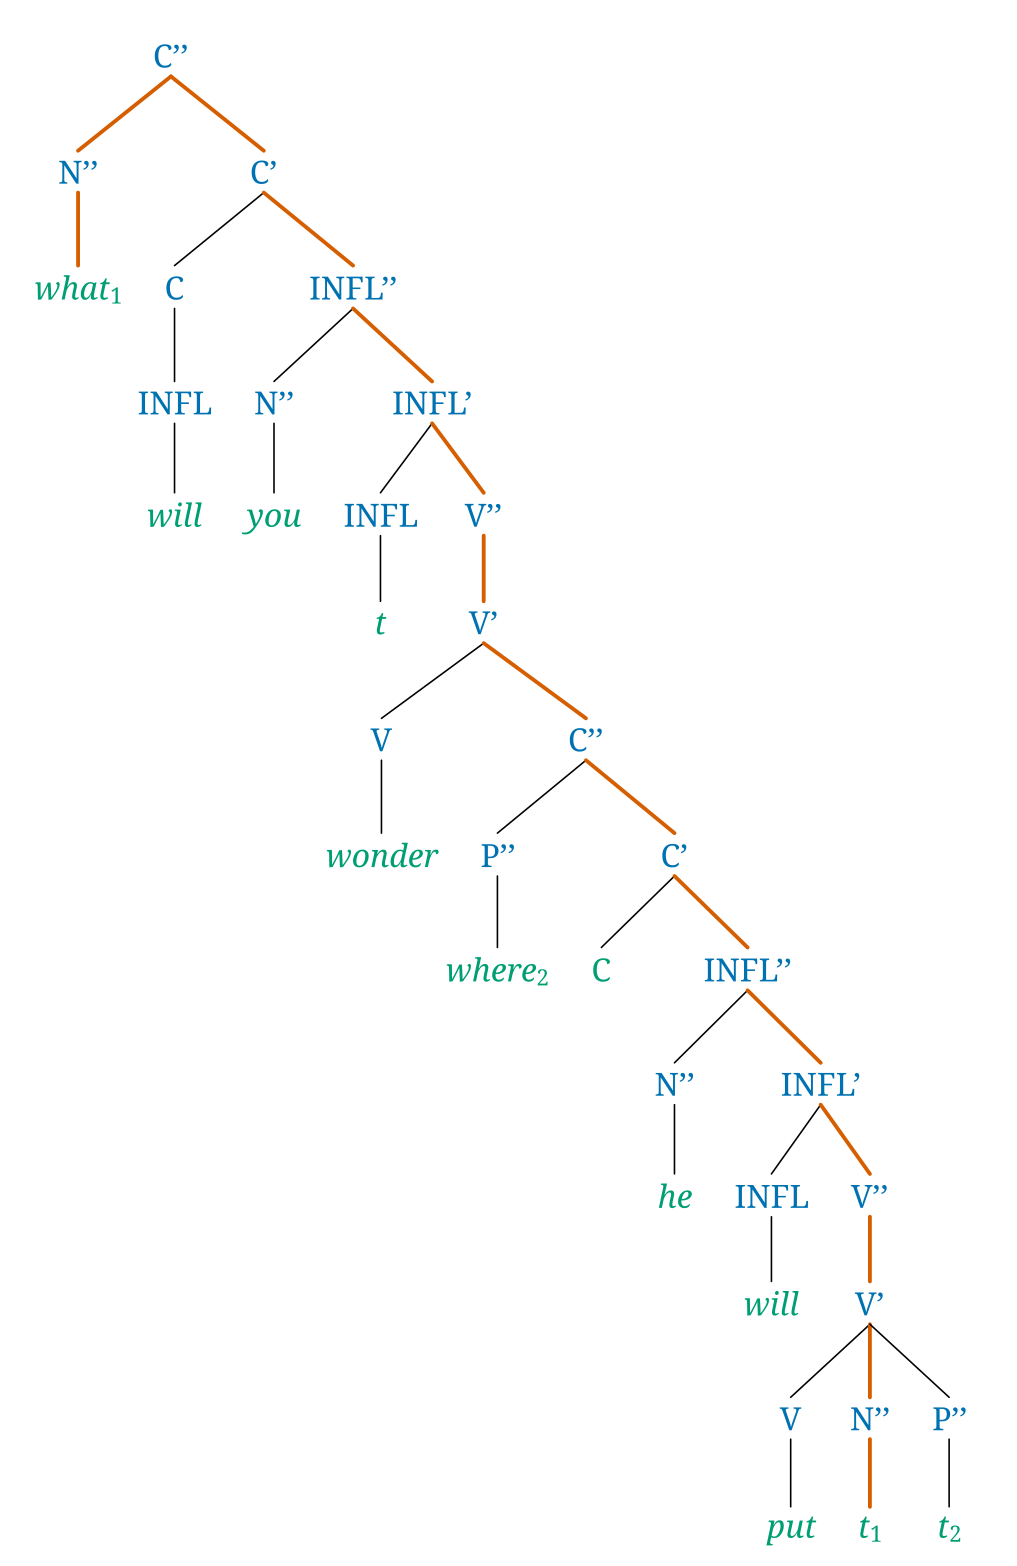
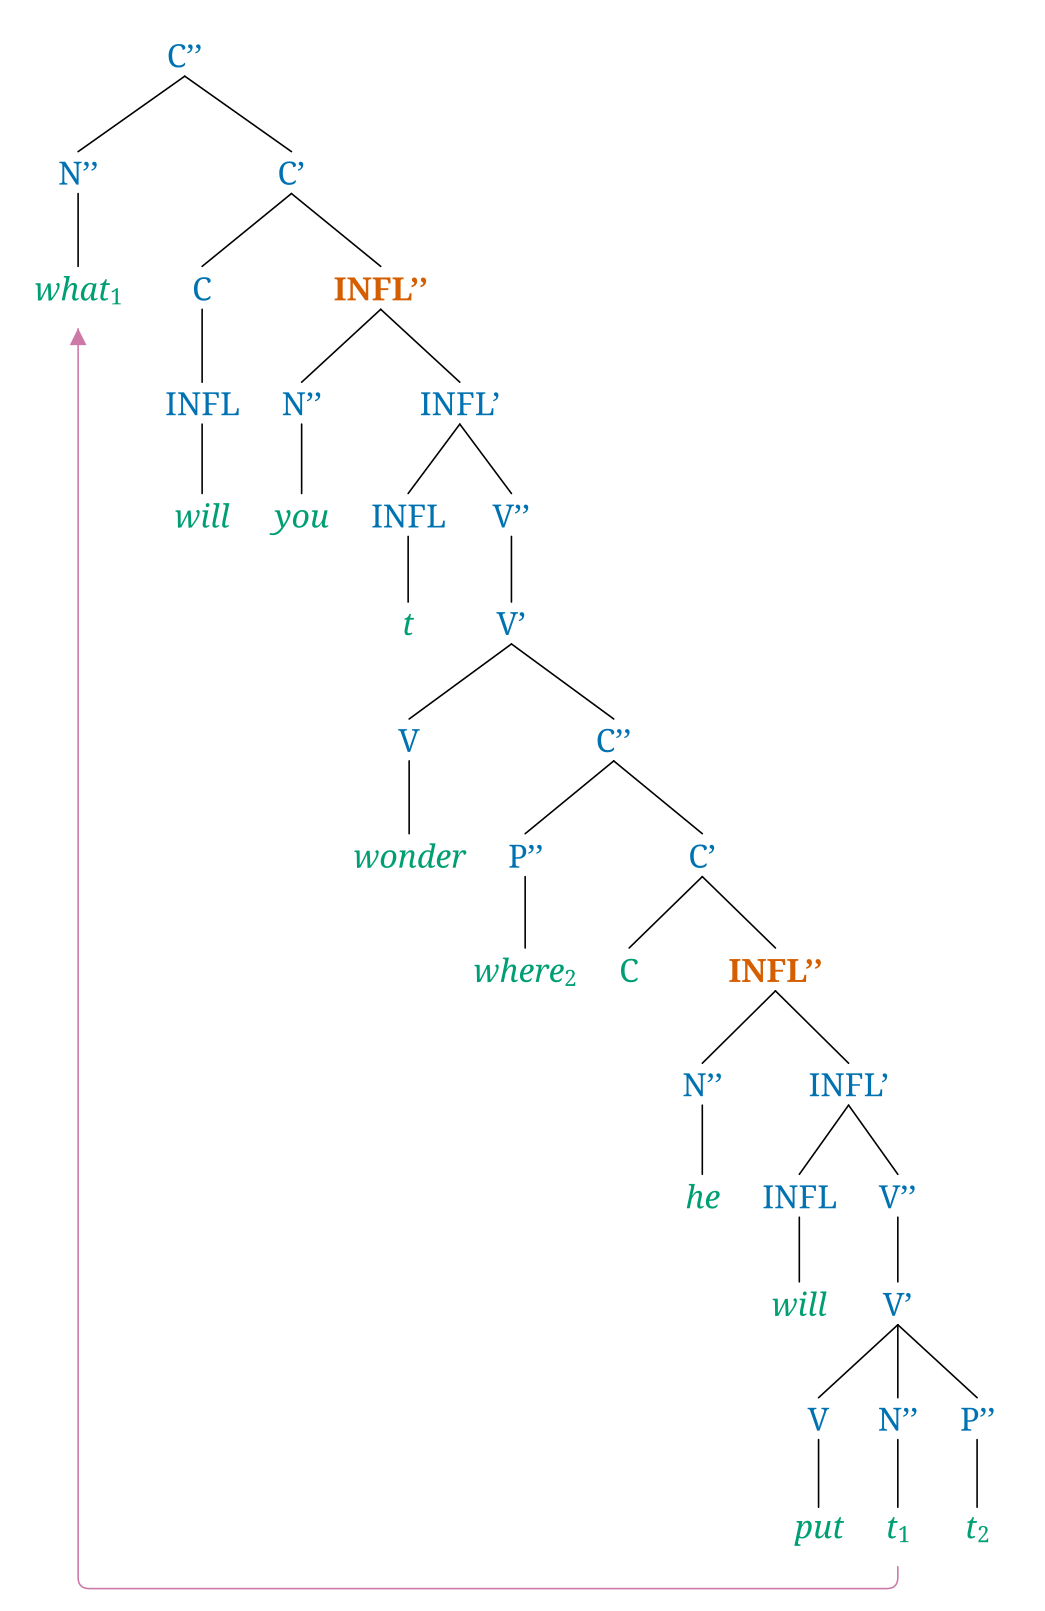
Show subjacency in 093 with a link, and c-command with a highlighted path in 094
093 draws the one step of movement and sets the two IPs it crosses in
bold. 094 follows Reinhart (1999): the path from Lili to herself runs
through the first branching node above the antecedent.

diff --git a/lib/rsyntaxtree/notation_examples.md b/lib/rsyntaxtree/notation_examples.md
@@ -1,4 +1,4 @@
-RSyntaxTree examples: 88 trees, every one verified to draw.
+RSyntaxTree examples: 89 trees, every one verified to draw.
 
 Each is the input behind a figure in the gallery at https://yohasebe.github.io/rsyntaxtree/examples.
 The settings line names the options the gallery records for that figure;
@@ -2743,7 +2743,7 @@ Source: Chomsky 2013: 44-45
                     [^PP ~*in which Texas city*~+1]]]]]]]]]]]
 ```
 
-## 093 — A highlighted path in a wh-island
+## 093 — Subjacency: one step of movement crossing two IPs
 
 Category: Generative Grammar
 Settings: fontstyle=noto-serif tidy=medium
@@ -2751,10 +2751,10 @@ Source: Chomsky 1973
 
 ```
 [C''
-  [N'' *what*_1_+=1]
+  [N'' *what*_1_+>1]
   [C'
     [C [INFL *will*]]
-    [INFL''
+    [**INFL''**
       [N'' *you*]
       [INFL'
         [INFL *t*]
@@ -2765,13 +2765,33 @@ Source: Chomsky 1973
               [P'' *where*_2_]
               [C'
                 [C]
-                [INFL''
+                [**INFL''**
                   [N'' *he*]
                   [INFL'
                     [INFL *will*]
                     [V''
                       [V'
                         [V *put*]
-                        [N'' *t*_1_+=1]
+                        [N'' *t*_1_+1]
                         [P'' *t*_2_]]]]]]]]]]]]]
+```
+
+## 094 — C-command: the path from an antecedent to its anaphor
+
+Category: Generative Grammar
+Settings: fontstyle=noto-serif tidy=medium
+Source: Reinhart 1999: 86
+
+```
+[S
+  [NP *Lucie*]
+  [VP
+    [V *thought*]
+    [S'
+      [C *that*]
+      [S
+        [NP+=1 *Lili*]
+        [VP
+          [V *hurt*]
+          [NP+=1 *herself*]]]]]]
 ```

diff --git a/docs/_examples/093.md b/docs/_examples/093.md
@@ -1,6 +1,6 @@
 ---
 name: "093"
-caption: "A highlighted path in a wh-island"
+caption: "Subjacency: one step of movement crossing two IPs"
 color: "modern"
 category: "Generative Grammar"
 polyline: "off"
@@ -14,10 +14,10 @@ reference: "Chomsky 1973"
 ---
 ```
 [C''
-  [N'' *what*_1_+=1]
+  [N'' *what*_1_+>1]
   [C'
     [C [INFL *will*]]
-    [INFL''
+    [**INFL''**
       [N'' *you*]
       [INFL'
         [INFL *t*]
@@ -28,13 +28,13 @@ reference: "Chomsky 1973"
               [P'' *where*_2_]
               [C'
                 [C]
-                [INFL''
+                [**INFL''**
                   [N'' *he*]
                   [INFL'
                     [INFL *will*]
                     [V''
                       [V'
                         [V *put*]
-                        [N'' *t*_1_+=1]
+                        [N'' *t*_1_+1]
                         [P'' *t*_2_]]]]]]]]]]]]]
 ```

diff --git a/docs/_examples/094.md b/docs/_examples/094.md
@@ -1,0 +1,27 @@
+---
+name: "094"
+caption: "C-command: the path from an antecedent to its anaphor"
+color: "modern"
+category: "Generative Grammar"
+polyline: "off"
+connector: "auto"
+connector_height: "1.0"
+linewidth: "1"
+hide_default_connectors: "off"
+tidy: "medium"
+font: "Noto Serif"
+reference: "Reinhart 1999: 86"
+---
+```
+[S
+  [NP *Lucie*]
+  [VP
+    [V *thought*]
+    [S'
+      [C *that*]
+      [S
+        [NP+=1 *Lili*]
+        [VP
+          [V *hurt*]
+          [NP+=1 *herself*]]]]]]
+```

diff --git a/docs/changelog.md b/docs/changelog.md
@@ -14,7 +14,7 @@ layout: default
 
 ### Added
 - `+=1` on two labels highlights the path through the tree between them, drawn heavier in the scheme's emphasis colour
-- Gallery: unlabeled branching points (091, 092) and a highlighted path (093)
+- Gallery: unlabeled branching points (091, 092), subjacency (093), and c-command shown by a highlighted path (094)
 
 ### Changed
 - The dashed lines between nodes are called links, and JSON lists them under `links` (schema 0.5.0) instead of `paths`

diff --git a/CHANGELOG.md b/CHANGELOG.md
@@ -4,7 +4,7 @@
 
 ### Added
 - `+=1` on two labels highlights the path through the tree between them, drawn heavier in the scheme's emphasis colour
-- Gallery: unlabeled branching points (091, 092) and a highlighted path (093)
+- Gallery: unlabeled branching points (091, 092), subjacency (093), and c-command shown by a highlighted path (094)
 
 ### Changed
 - The dashed lines between nodes are called links, and JSON lists them under `links` (schema 0.5.0) instead of `paths`
